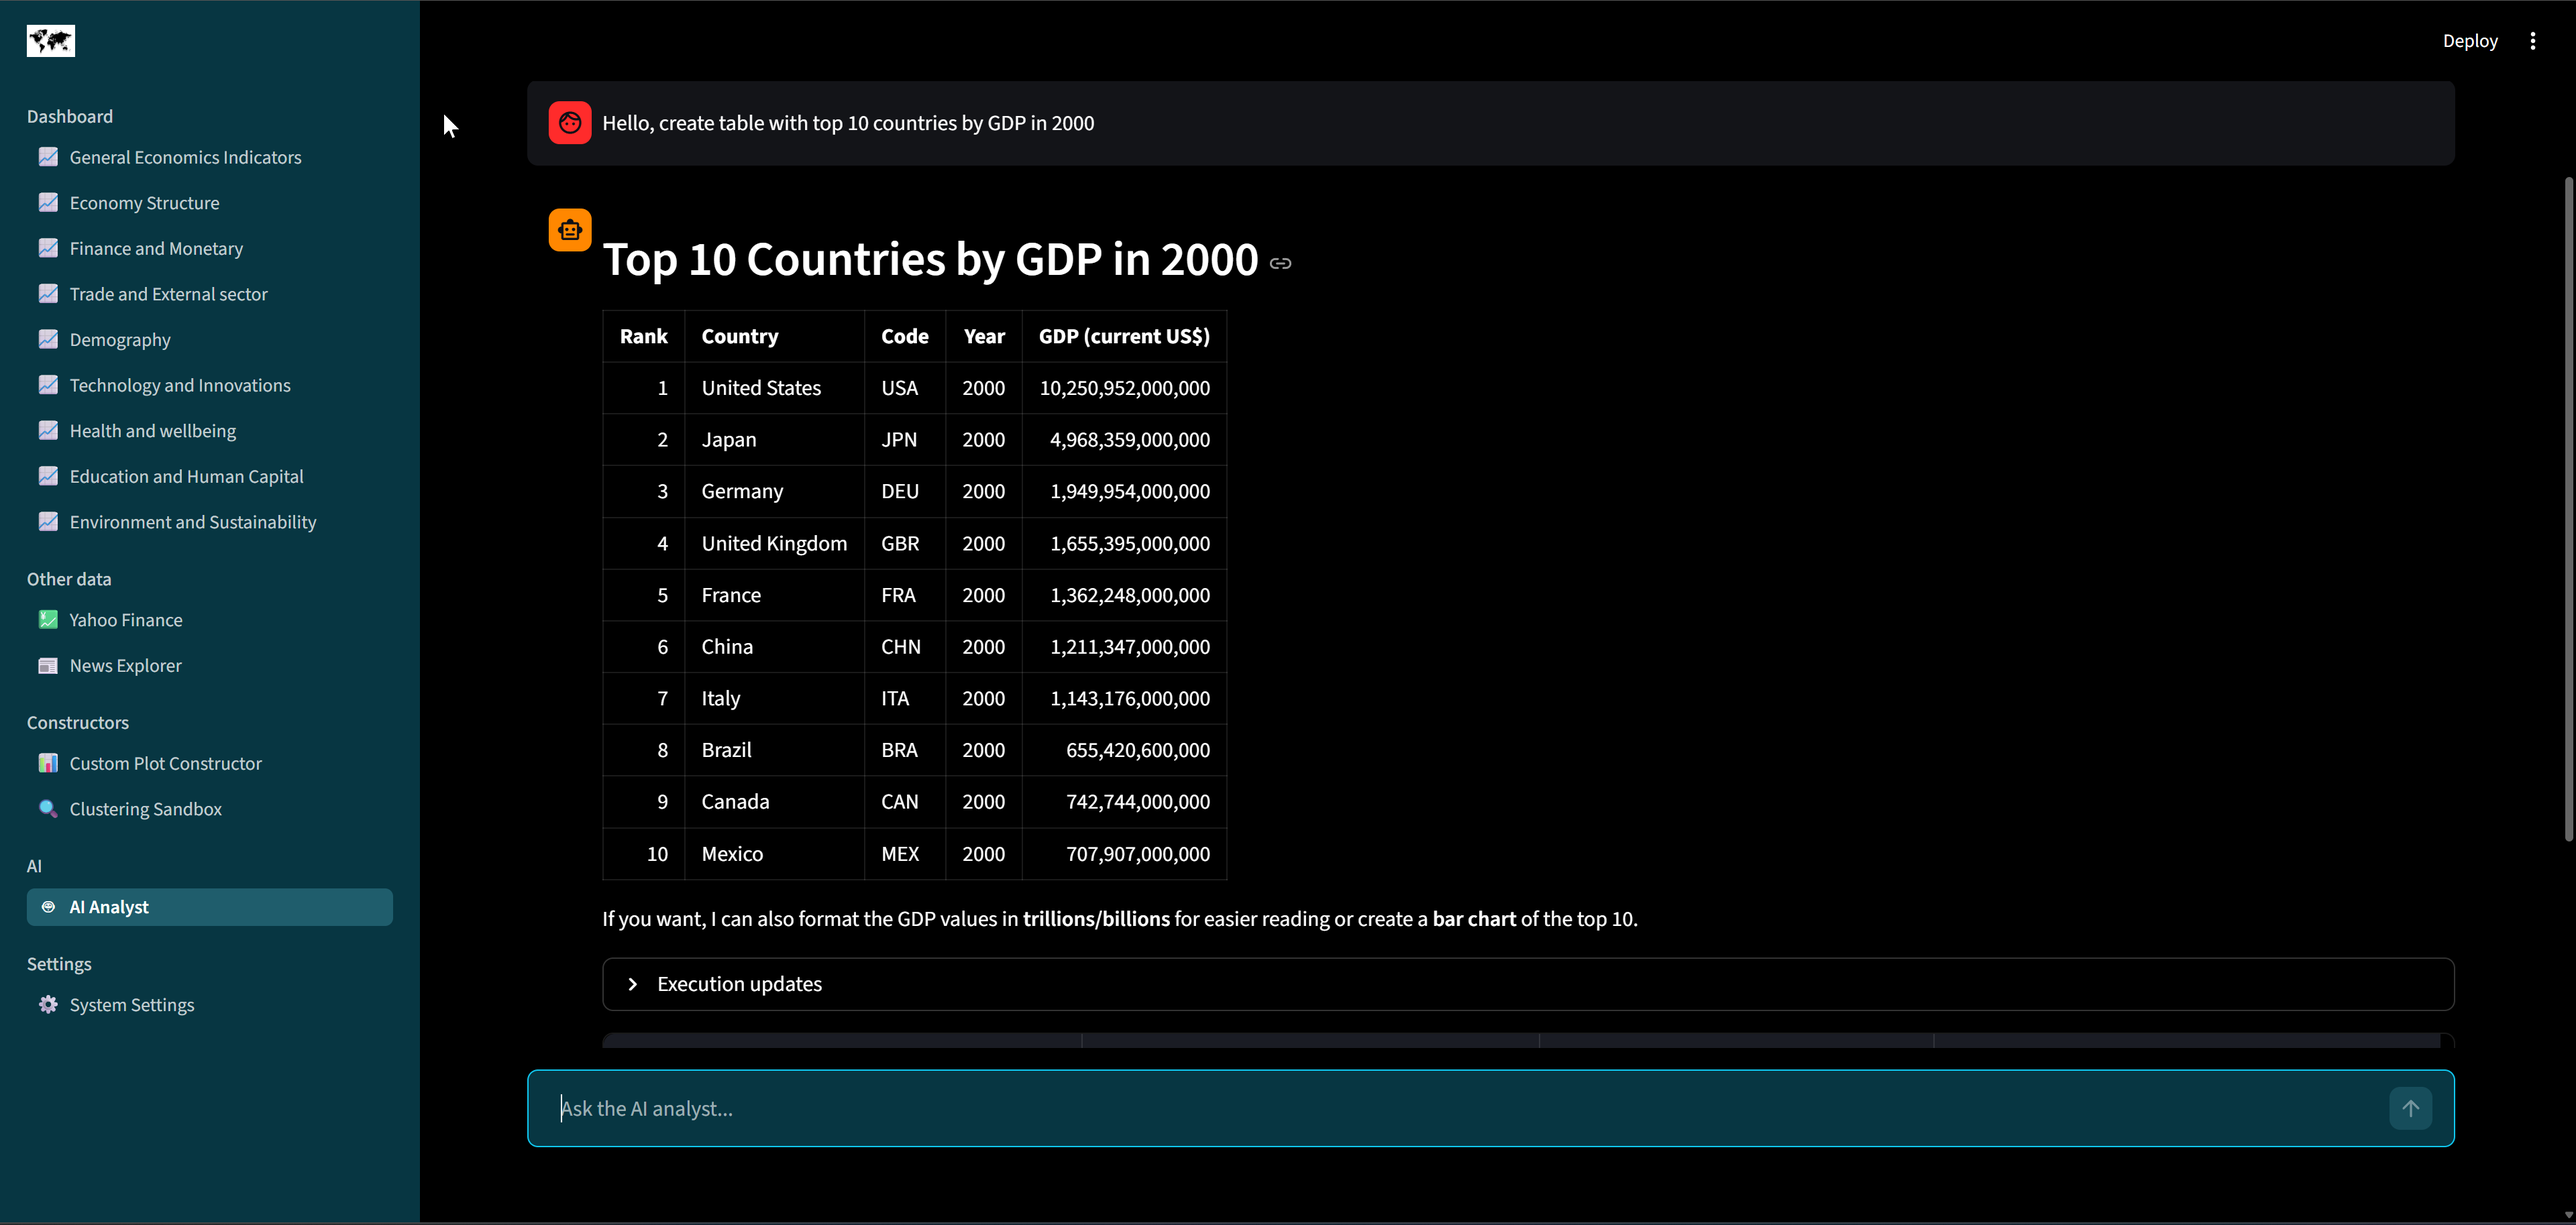
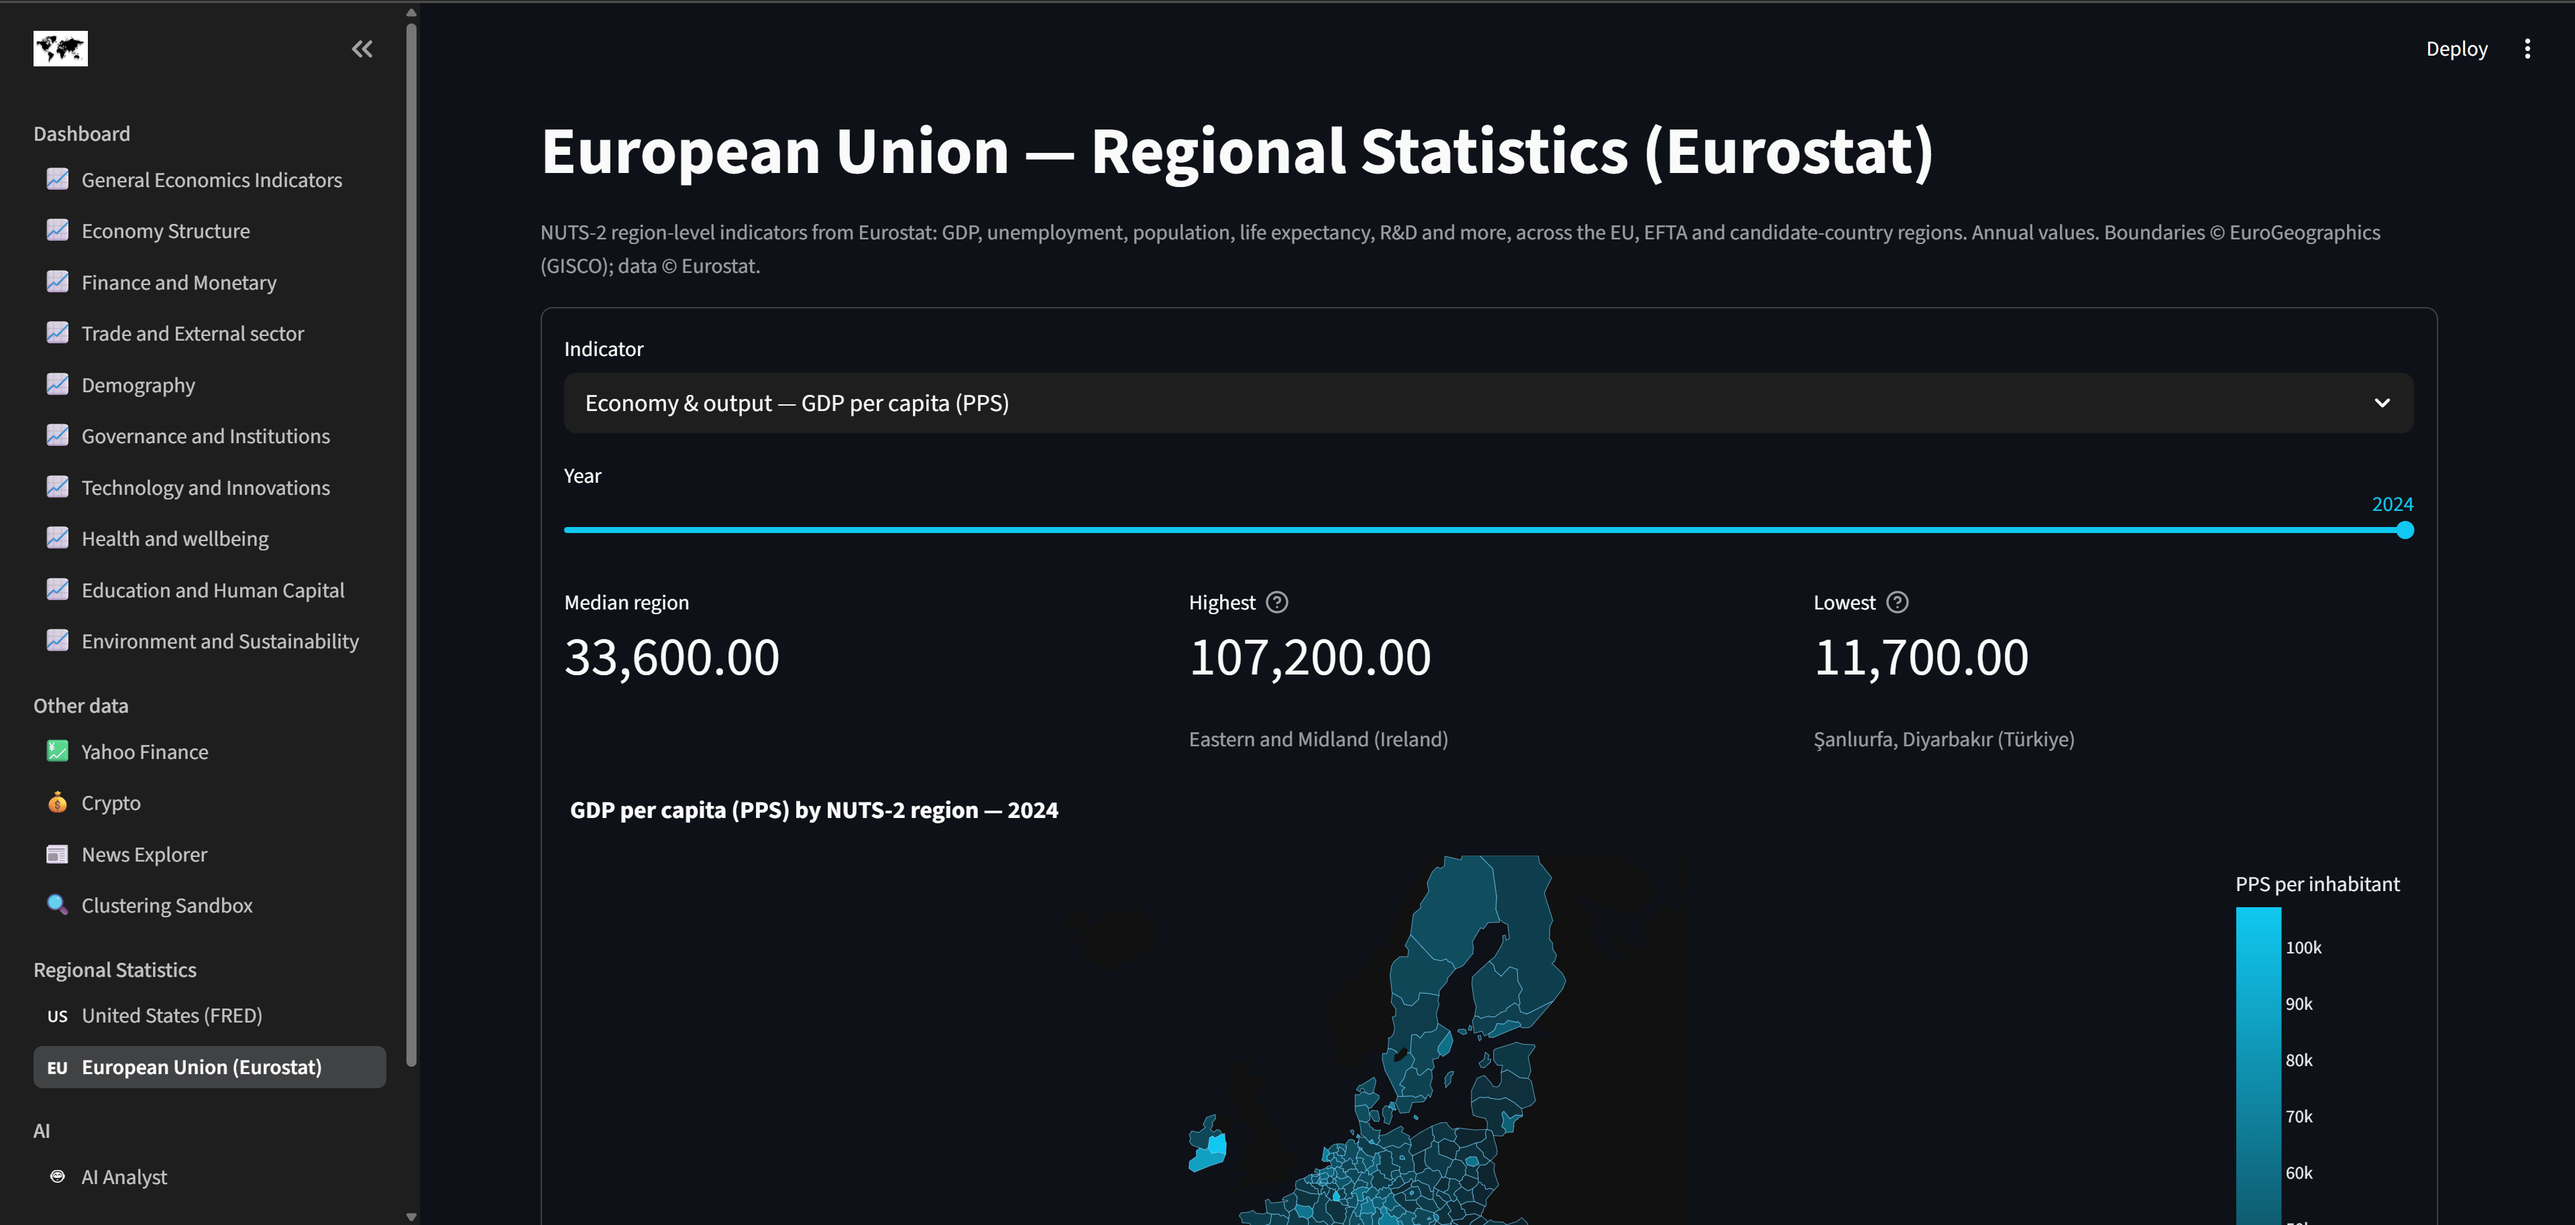
update README.md

diff --git a/README.md b/README.md
@@ -5,7 +5,6 @@ Technical stack (not exhaustive):
 ![Visual Studio Code](https://img.shields.io/badge/Visual%20Studio%20Code-0078d7.svg?style=for-the-badge&logo=visual-studio-code&logoColor=white)
 ![Google Gemini](https://img.shields.io/badge/google%20gemini-8E75B2?style=for-the-badge&logo=google%20gemini&logoColor=white)
 ![Claude](https://img.shields.io/badge/Claude-D97757?style=for-the-badge&logo=claude&logoColor=white)
-![GitHub Copilot](https://img.shields.io/badge/github_copilot-8957E5?style=for-the-badge&logo=github-copilot&logoColor=white)
 ![Docker](https://img.shields.io/badge/docker-%230db7ed.svg?style=for-the-badge&logo=docker&logoColor=white)
 ![GitHub](https://img.shields.io/badge/github-%23121011.svg?style=for-the-badge&logo=github&logoColor=white)
 ![Python](https://img.shields.io/badge/python-3670A0?style=for-the-badge&logo=python&logoColor=ffdd54)
@@ -21,7 +20,18 @@ Technical stack (not exhaustive):
 ![Plotly](https://img.shields.io/badge/Plotly-%233F4F75.svg?style=for-the-badge&logo=plotly&logoColor=white)
 ![DuckDuckGo](https://img.shields.io/badge/duckduckgo-de5833?style=for-the-badge&logo=duckduckgo&logoColor=white)
 
-[`Ultimate Macroeconomics Dashboard`](https://github.com/alexveider1/Ultimate-Macroeconomics-Dashboard) is an AI-powered macroeconomic analytics tool: a **multi-page Streamlit dashboard** talking directly to Postgres + Qdrant and to FastAPI micro-services for the AI analyst, forecasting, clustering, on-demand data ingestion, document conversion, and a sandboxed Python executor, plus an NVIDIA Triton Inference Server hosting all model inference. It covers World Bank, Yahoo Finance, Binance crypto, FRED US-state and Eurostat EU-regional (NUTS-2) data, plus a **30 000+** article news RAG corpus — **70+** World Bank indicators, **50+** Yahoo Finance tickers, and **150+** prebuilt charts.
+[`Ultimate Macroeconomics Dashboard`](https://github.com/alexveider1/Ultimate-Macroeconomics-Dashboard) is an AI-powered macroeconomic analytics tool: a **multi-page Streamlit dashboard** talking directly to Postgres + Qdrant and to FastAPI micro-services for the AI analyst, forecasting, clustering, on-demand data ingestion, document conversion, and a sandboxed Python executor, plus an NVIDIA Triton Inference Server hosting all model inference. It covers World Bank, Yahoo Finance, Binance crypto, FRED US-state and Eurostat EU-regional (NUTS-2) data, plus a **30 000+** article news RAG corpus — **70+** World Bank indicators, **90+** Yahoo Finance tickers, and **150+** prebuilt charts.
+
+## Images
+
+|                          |                          |
+|--------------------------|--------------------------|
+|  ![](app/assets/01.png)  |  ![](app/assets/02.png)  |
+|  ![](app/assets/03.png)  |  ![](app/assets/04.png)  |
+|  ![](app/assets/05.png)  |  ![](app/assets/06.png)  |
+|  ![](app/assets/07.png)  |  ![](app/assets/08.png)  |
+|  ![](app/assets/09.png)  |  ![](app/assets/10.png)  |
+|  ![](app/assets/11.png)  |  ![](app/assets/12.png)  |
 
 ## Architecture
 
@@ -95,7 +105,7 @@ Set these under `shared:` to point at your LLM provider (any OpenAI-compatible A
 
 ```yaml
 shared:
-  openai_base_url: https://api.openai.com/v1
+  openai_base_url: https://openrouter.ai/api/v1
   openai_llm_model: gpt-5.4
   openai_llm_model_fast: gpt-5.4-mini
   openai_embedding_model: openai/text-embedding-3-small
@@ -113,9 +123,7 @@ The active colour palette is controlled by `_container_data/themes.yaml`, read d
 
 ```yaml
 active: dark
-themes:
-  dark:
-    ...
+...
 ```
 
 ## Adding extra indicators
@@ -199,9 +207,9 @@ Postgres restore is automated (`pg_restore --clean --if-exists`); a full Qdrant 
 
 Container and service health is monitored **externally** by a fully open-source **Grafana + Prometheus + OpenTelemetry** stack — deliberately separate from the dashboard so it keeps reporting even when the app is down. Every container is treated as an external service: both its resources and its health are tracked from the outside, with no per-service instrumentation. Open **Grafana at `http://localhost:3001`** (log in as `admin` with `GRAFANA_ADMIN_PASSWORD` from your `.env`). It gives you, out of the box:
 
-- **Per-container CPU / RAM / disk / network** for every container in the stack, plus host-level metrics — collected by an **OpenTelemetry Collector** (`docker_stats` + `hostmetrics` receivers reading the Docker socket + host `/proc`/`/sys`), with history, not just a live snapshot.
-- **Per-service health checks** — a **blackbox exporter** runs HTTP probes against each service's health endpoint (`agent`, `forecaster`, `clustering`, `downloader_extra`, `python_sandbox`, `docling`, `app`, `triton`, `vector_db`, `langfuse_web`) and TCP probes for the databases (Postgres + the Langfuse backing stores).
-- Three provisioned dashboards — **Containers**, **Host**, and **Service health** — backed by **Prometheus** (`http://localhost:9092`), which also scrapes Triton's native inference/GPU metrics.
+* **Per-container CPU / RAM / disk / network** for every container in the stack, plus host-level metrics — collected by an **OpenTelemetry Collector** (`docker_stats` + `hostmetrics` receivers reading the Docker socket + host `/proc`/`/sys`), with history, not just a live snapshot.
+* **Per-service health checks** — a **blackbox exporter** runs HTTP probes against each service's health endpoint (`agent`, `forecaster`, `clustering`, `downloader_extra`, `python_sandbox`, `docling`, `app`, `triton`, `vector_db`, `langfuse_web`) and TCP probes for the databases (Postgres + the Langfuse backing stores).
+* Three provisioned dashboards — **Containers**, **Host**, and **Service health** — backed by **Prometheus** (`http://localhost:9092`), which also scrapes Triton's native inference/GPU metrics.
 
 To add or change a health probe, edit the target list in `_container_data/prometheus/prometheus.yml` (the `blackbox-http` / `blackbox-tcp` jobs) and restart the `prometheus` service. The stack runs fully independently of the app services (no `depends_on` either way), so a monitor outage can never affect the stack. Set `GRAFANA_ADMIN_PASSWORD` in `.env` before first boot (see `.env.example`).
 
